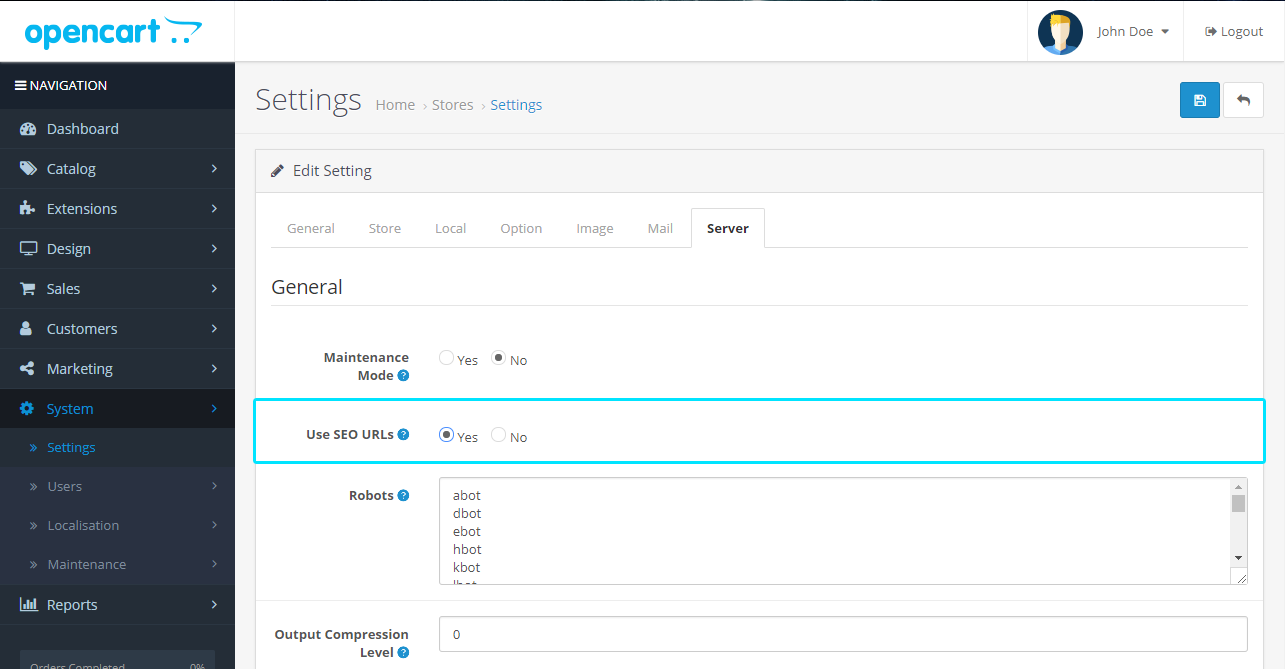
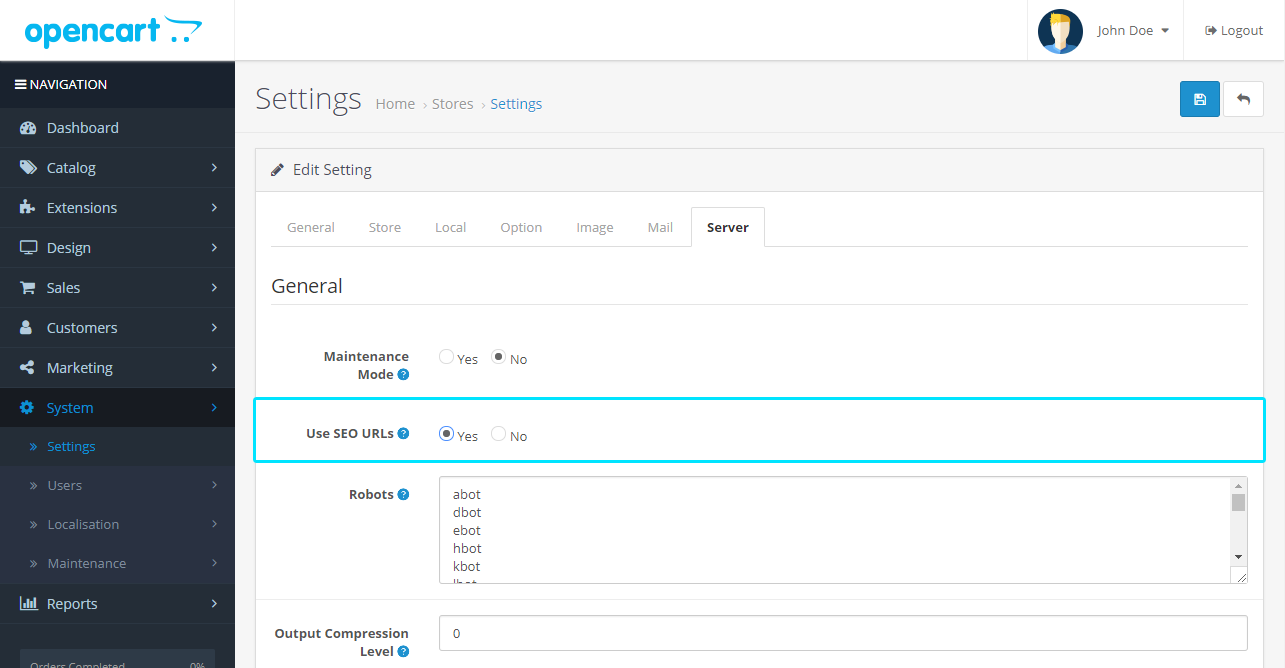
seo url image and english content updated

diff --git a/docs/en-gb/administration/seo.html b/docs/en-gb/administration/seo.html
@@ -7,49 +7,68 @@ permalink: en-gb/administration/seo/
 <h2>SEO keywords</h2>
 <p>OpenCart allows the use of search engine optimized URLs for product, category, manufacturer and information pages. SEO keywords are defined per product, category, manufacturer and information page, stored in a database table (url_alias), looked up at each page request, and translated into an internal URL.</p>
 <p>In order to use SEO keywords, they must be enabled in the store settings page, <a href="en-gb/system/setting/server/">server tab</a> in the <a href="en-gb/administration/">admin interface</a>.</p>
-<p class="text-center"><img src="image/admin-interface-seo.png" alt="seo settings" class="img-thumbnail" /></p>
-<p>A correctly formatted .htaccess file must be present in the root of the OpenCart installation (beside the admin and catalog folders). The contents of the .htaccess file are shown below:</p>
-<div class="code">
-  <p><code># 1.To use URL Alias you need to be running apache with mod_rewrite enabled.<br />
-    # 2. In your opencart directory rename htaccess.txt to .htaccess.<br />
-    # For any support issues please visit: http://www.opencart.com<br />
-    Options +FollowSymlinks<br />
-    # Prevent Directoy listing<br />
-    Options -Indexes<br />
-    # Prevent Direct Access to files<br />
-    &lt;FilesMatch &quot;\.(tpl|ini|log)&quot;&gt;<br />
-    &nbsp;Order deny,allow<br />
-    &nbsp;Deny from all<br />
-    &lt;/FilesMatch&gt;<br />
-    # SEO URL Settings<br />
-    RewriteEngine On<br />
-    # If your opencart installation does not run on the main web folder make sure you folder it does run in ie. / becomes /shop/<br />
-    RewriteBase /<br />
-    RewriteRule ^sitemap.xml$ index.php?route=feed/google_sitemap [L]<br />
-    RewriteRule ^googlebase.xml$ index.php?route=feed/google_base [L]<br />
-    RewriteCond %{REQUEST_FILENAME} !-f<br />
-    RewriteCond %{REQUEST_FILENAME} !-d<br />
-    RewriteCond %{REQUEST_URI} !.*\.(ico|gif|jpg|jpeg|png|js|css)<br />
-    RewriteRule ^([^?]*) index.php?_route_=$1 [L,QSA]<br />
-    ### Additional Settings that may need to be enabled for some servers<br />
-    ### Uncomment the commands by removing the # sign in front of it.<br />
-    ### If you get an &quot;Internal Server Error 500&quot; after enabling any of the following settings, restore the # as this means your host doesn&#39;t allow that.<br />
-    # 1. If your cart only allows you to add one item at a time, it is possible register_globals is on. This may work to disable it:<br />
-    # php_flag register_globals off<br />
-    # 2. If your cart has magic quotes enabled, This may work to disable it:<br />
-    # php_flag magic_quotes_gpc Off<br />
-    # 3. Set max upload file size. Most hosts will limit this and not allow it to be overridden but you can try<br />
-    # php_value upload_max_filesize 999M<br />
-    # 4. set max post size. uncomment this line if you have a lot of product options or are getting errors where forms are not saving all fields<br />
-    # php_value post_max_size 999M<br />
-    # 5. set max time script can take. uncomment this line if you have a lot of product options or are getting errors where forms are not saving all fields<br />
-    # php_value max_execution_time 200<br />
-    # 6. set max time for input to be recieved. Uncomment this line if you have a lot of product options or are getting errors where forms are not saving all fields<br />
-    # php_value max_input_time 200<br />
-    # 7. disable open_basedir limitations<br />
-    # php_admin_value open_basedir none </code></p>
+
+<p class="text-center"><img src="image/administration/admin-enable-seo-url.png" alt="System Setting - SEO URL" class="img-responsive" /></p>
+
+<p>A correctly formatted .htaccess file must be present in the root of the OpenCart installation (beside the admin and catalog folders). The contents of the .htaccess file are shown below:
+  <a role="button" class="btn btn-default btn-sm" data-toggle="collapse" href="#collapse-htaccess" aria-expanded="false" aria-controls="collapse-htaccess">Show / Hide</a>
+</p>
+
+<div class="collapse in" id="collapse-htaccess">
+  <div class="well">
+    <code>
+      # 1.To use URL Alias you need to be running apache with mod_rewrite enabled.<br />
+      # 2. In your opencart directory rename htaccess.txt to .htaccess.<br />
+      # For any support issues please visit: http://www.opencart.com<br />
+      Options +FollowSymlinks<br />
+      # Prevent Directoy listing<br />
+      Options -Indexes<br />
+      # Prevent Direct Access to files<br />
+      &lt;FilesMatch &quot;\.(tpl|ini|log)&quot;&gt;<br />
+      &nbsp;Order deny,allow<br />
+      &nbsp;Deny from all<br />
+      &lt;/FilesMatch&gt;<br />
+      # SEO URL Settings<br />
+      RewriteEngine On<br />
+      # If your opencart installation does not run on the main web folder make sure you folder it does run in ie. / becomes /shop/<br />
+      RewriteBase /<br />
+      RewriteRule ^sitemap.xml$ index.php?route=feed/google_sitemap [L]<br />
+      RewriteRule ^googlebase.xml$ index.php?route=feed/google_base [L]<br />
+      RewriteCond %{REQUEST_FILENAME} !-f<br />
+      RewriteCond %{REQUEST_FILENAME} !-d<br />
+      RewriteCond %{REQUEST_URI} !.*\.(ico|gif|jpg|jpeg|png|js|css)<br />
+      RewriteRule ^([^?]*) index.php?_route_=$1 [L,QSA]<br />
+      ### Additional Settings that may need to be enabled for some servers<br />
+      ### Uncomment the commands by removing the # sign in front of it.<br />
+      ### If you get an &quot;Internal Server Error 500&quot; after enabling any of the following settings, restore the # as this means your host doesn&#39;t allow that.<br />
+      # 1. If your cart only allows you to add one item at a time, it is possible register_globals is on. This may work to disable it:<br />
+      # php_flag register_globals off<br />
+      # 2. If your cart has magic quotes enabled, This may work to disable it:<br />
+      # php_flag magic_quotes_gpc Off<br />
+      # 3. Set max upload file size. Most hosts will limit this and not allow it to be overridden but you can try<br />
+      # php_value upload_max_filesize 999M<br />
+      # 4. set max post size. uncomment this line if you have a lot of product options or are getting errors where forms are not saving all fields<br />
+      # php_value post_max_size 999M<br />
+      # 5. set max time script can take. uncomment this line if you have a lot of product options or are getting errors where forms are not saving all fields<br />
+      # php_value max_execution_time 200<br />
+      # 6. set max time for input to be recieved. Uncomment this line if you have a lot of product options or are getting errors where forms are not saving all fields<br />
+      # php_value max_input_time 200<br />
+      # 7. disable open_basedir limitations<br />
+      # php_admin_value open_basedir none
+      </code>
+  </div>
 </div>
+
 <p>The .htaccess.txt file should be present in your store&#39;s root folder. If not, copy and paste the text above into a text editor and save it as &quot;.htaccess&quot;. If the .htaccess.txt file is present, please change its name to &quot;.htaccess&quot;. With the .htaccess file changed, you should be able to add unique SEO keywords to individual products, manufacturers, categories, and information pages.</p>
+
 <p>The SEO keywords you add will be displayed in the url of the page, so they must be unique for each product, product category, etc. Let&#39;s see what happens when we add the SEO keyword, &quot;nikon-camera&quot;, to our Nikon D300 product under the <a href="en-gb/administration/seo/">Data </a>tab:</p>
-<p class="text-center"><img src="image/nikon%20seo.png" alt="nikon seo" class="img-thumbnail" /></p>
-<p>If our store is located at &quot;<a href="http://www.mystore.com">www.mystore.com</a>&quot;, the new URL of the Nikon D300 product page will be located at &quot;<a href="http://www.mystore.com/nikon-camera">www.mystore.com/nikon-camera</a>&quot;. Overall, creating SEO keywords will clean up your store page&#39;s URL and optimize your page for search engines.</p>
+
+<p class="text-center"><img src="image/administration/admin-product-seo-url-example.png" alt="Admin Product - SEO Example" class="img-responsive" /></p>
+
+<p>If our store is located at &quot;www.mystore.com&quot;, the new URL of the Nikon D300 product page will be located at &quot;www.mystore.com/nikon-d300&quot;. Overall, creating SEO keywords will clean up your store page&#39;s URL and optimize your page for search engines.</p>
+
+<div class="well">
+  <code>www.mystore.com/nikon-d300</code>
+</div>
+
+<p class="text-center"><img src="image/administration/store-front-seo-url-example.png" alt="Store front - SEO Example" class="img-responsive" /></p>
